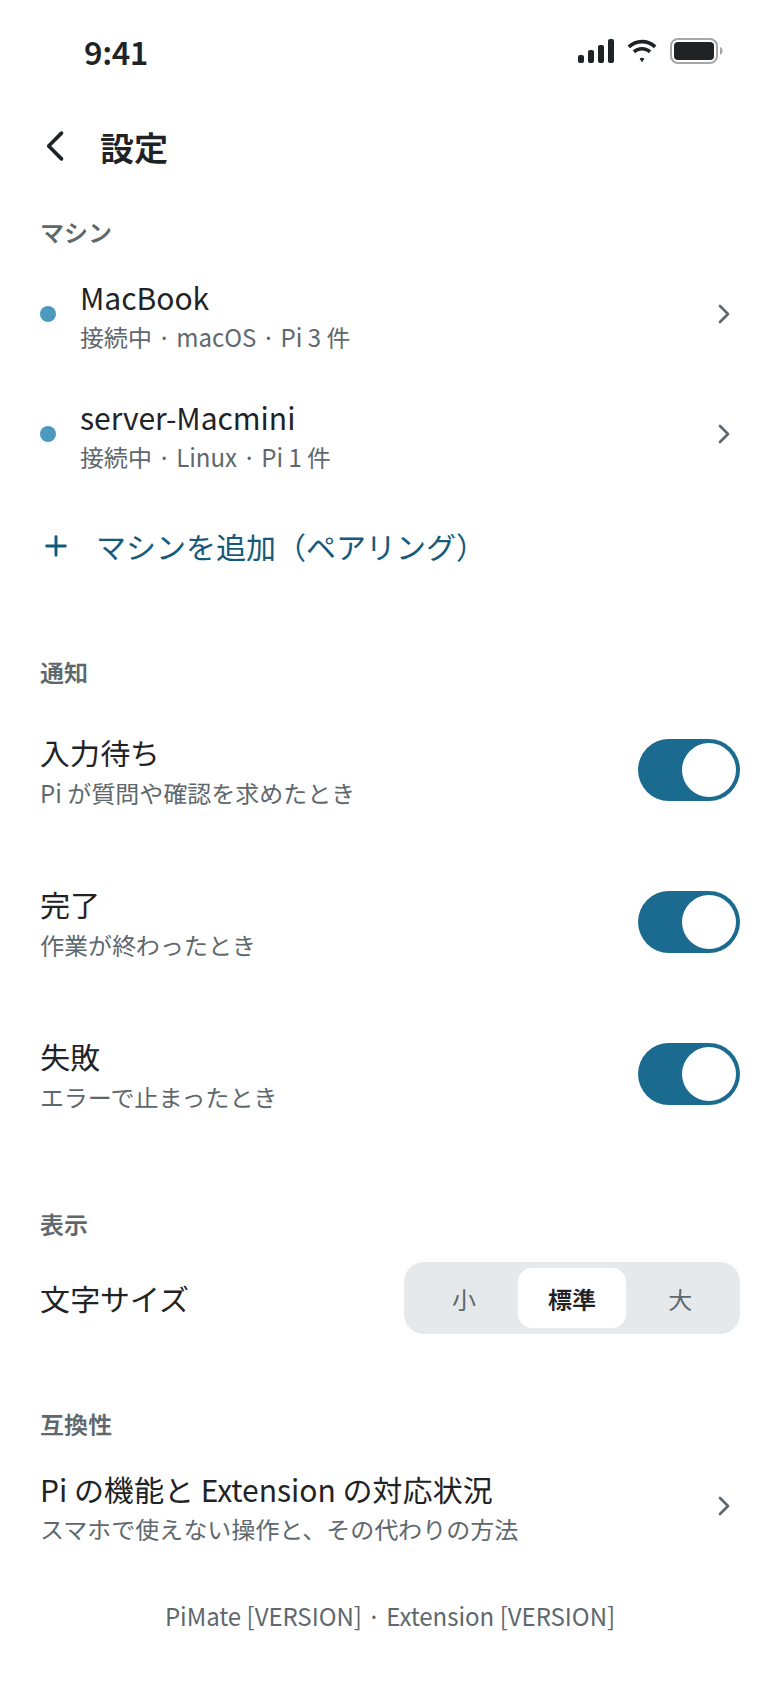
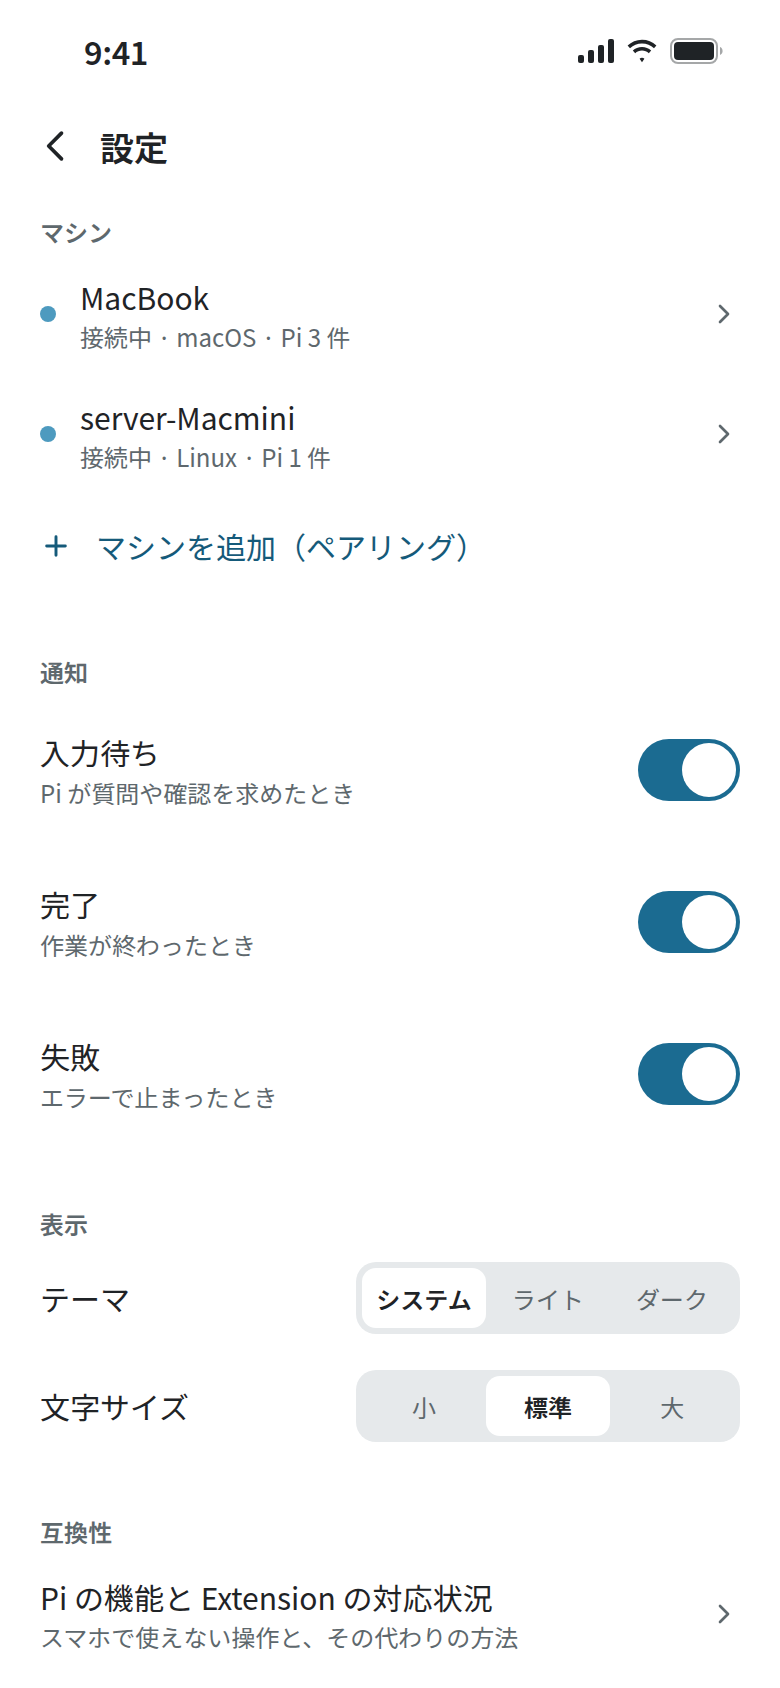
docs: describe display preferences

Changed region(s): [[0.0615, 0.7393, 0.9538, 0.9858]]

diff --git a/docs/design/html/Settings.html b/docs/design/html/Settings.html
@@ -92,8 +92,16 @@ html,body{margin:0;overflow:hidden}
 
     <div style="margin-top: 28px; font-size: 12px; font-weight: 600; color: #5E686D">表示</div>
     <div style="margin-top: 2px; padding: 8px 0; display: flex; align-items: center; gap: 12px">
+      <span style="flex: 1; font-size: 15px">テーマ</span>
+      <div role="radiogroup" aria-label="テーマ" style="height: 36px; box-sizing: border-box; padding: 3px; display: grid; grid-template-columns: repeat(3, minmax(0, 1fr)); width: 192px; border-radius: 10px; background: #E6E9EB">
+        <button role="radio" aria-checked="true" style="height: 30px; border: 0; border-radius: 7px; background: #FFFFFF; color: #1F2326; font-family: inherit; font-size: 12px; font-weight: 600">システム</button>
+        <button role="radio" aria-checked="false" style="height: 30px; border: 0; border-radius: 7px; background: transparent; color: #5E686D; font-family: inherit; font-size: 12px">ライト</button>
+        <button role="radio" aria-checked="false" style="height: 30px; border: 0; border-radius: 7px; background: transparent; color: #5E686D; font-family: inherit; font-size: 12px">ダーク</button>
+      </div>
+    </div>
+    <div style="margin-top: 2px; padding: 8px 0; display: flex; align-items: center; gap: 12px">
       <span style="flex: 1; font-size: 15px">文字サイズ</span>
-      <div role="radiogroup" aria-label="文字サイズ" style="height: 36px; box-sizing: border-box; padding: 3px; display: grid; grid-template-columns: repeat(3, minmax(0, 1fr)); width: 168px; border-radius: 10px; background: #E6E9EB">
+      <div role="radiogroup" aria-label="文字サイズ" style="height: 36px; box-sizing: border-box; padding: 3px; display: grid; grid-template-columns: repeat(3, minmax(0, 1fr)); width: 192px; border-radius: 10px; background: #E6E9EB">
         <button role="radio" aria-checked="false" style="height: 30px; border: 0; border-radius: 7px; background: transparent; color: #5E686D; font-family: inherit; font-size: 12px">小</button>
         <button role="radio" aria-checked="true" style="height: 30px; border: 0; border-radius: 7px; background: #FFFFFF; color: #1F2326; font-family: inherit; font-size: 12px; font-weight: 600">標準</button>
         <button role="radio" aria-checked="false" style="height: 30px; border: 0; border-radius: 7px; background: transparent; color: #5E686D; font-family: inherit; font-size: 12px">大</button>

diff --git a/docs/design/mock/Settings.dc.html b/docs/design/mock/Settings.dc.html
@@ -68,8 +68,16 @@ html,body{margin:0;overflow:hidden}
 
     <div style="margin-top: 28px; font-size: 12px; font-weight: 600; color: #5E686D">表示</div>
     <div style="margin-top: 2px; padding: 8px 0; display: flex; align-items: center; gap: 12px">
+      <span style="flex: 1; font-size: 15px">テーマ</span>
+      <div role="radiogroup" aria-label="テーマ" style="height: 36px; box-sizing: border-box; padding: 3px; display: grid; grid-template-columns: repeat(3, minmax(0, 1fr)); width: 192px; border-radius: 10px; background: #E6E9EB">
+        <button role="radio" aria-checked="true" style="height: 30px; border: 0; border-radius: 7px; background: #FFFFFF; color: #1F2326; font-family: inherit; font-size: 12px; font-weight: 600">システム</button>
+        <button role="radio" aria-checked="false" style="height: 30px; border: 0; border-radius: 7px; background: transparent; color: #5E686D; font-family: inherit; font-size: 12px">ライト</button>
+        <button role="radio" aria-checked="false" style="height: 30px; border: 0; border-radius: 7px; background: transparent; color: #5E686D; font-family: inherit; font-size: 12px">ダーク</button>
+      </div>
+    </div>
+    <div style="margin-top: 2px; padding: 8px 0; display: flex; align-items: center; gap: 12px">
       <span style="flex: 1; font-size: 15px">文字サイズ</span>
-      <div role="radiogroup" aria-label="文字サイズ" style="height: 36px; box-sizing: border-box; padding: 3px; display: grid; grid-template-columns: repeat(3, minmax(0, 1fr)); width: 168px; border-radius: 10px; background: #E6E9EB">
+      <div role="radiogroup" aria-label="文字サイズ" style="height: 36px; box-sizing: border-box; padding: 3px; display: grid; grid-template-columns: repeat(3, minmax(0, 1fr)); width: 192px; border-radius: 10px; background: #E6E9EB">
         <button role="radio" aria-checked="false" style="height: 30px; border: 0; border-radius: 7px; background: transparent; color: #5E686D; font-family: inherit; font-size: 12px">小</button>
         <button role="radio" aria-checked="true" style="height: 30px; border: 0; border-radius: 7px; background: #FFFFFF; color: #1F2326; font-family: inherit; font-size: 12px; font-weight: 600">標準</button>
         <button role="radio" aria-checked="false" style="height: 30px; border: 0; border-radius: 7px; background: transparent; color: #5E686D; font-family: inherit; font-size: 12px">大</button>

diff --git a/apps/mobile/README.md b/apps/mobile/README.md
@@ -1,6 +1,6 @@
 # PiMate mobile
 
-Expo（SDK 57、expo-router）のアプリです。Android優先で作っています。見た目は [docs/design/](../../docs/design/README.md) のモックに合わせます。主ボタン・1行の入力欄・コマンド表示は角丸 12px で、カプセル型は使いません。ライト / ダークは起動時の OS の設定に従います（起動中に OS 側で切り替えた場合は次の起動から。[#23](https://github.com/phni3j9a/PiMate/issues/23)）。ダークも色の役割は同じで、線や影ではなく面の濃淡で区切ります。本文は 15px です。
+Expo（SDK 57、expo-router）のアプリです。Android優先で作っています。見た目は [docs/design/](../../docs/design/README.md) のモックに合わせます。主ボタン・1行の入力欄・コマンド表示は角丸 12px で、カプセル型は使いません。設定の「表示」でテーマ（システム・ライト・ダーク）と文字サイズ（小・標準・大）を選べ、再起動なしで反映されます。文字サイズは OS の設定にも重ねて適用されます。ダークも色の役割は同じで、線や影ではなく面の濃淡で区切ります。本文は 15px です。
 
 アイコン類は [icon kit](../../docs/design/icon-kit/README.md) の書き出し済み素材を `assets/brand/` にコピーして使います（正本はキット側）。Android はライト版の adaptive icon＋テーマアイコン用の単色、iOS は Light / Dark / Tinted。スプラッシュはアプリの背景色にマークを載せ、ライト / ダークで配色を切り替えます。通知は白いシルエット。アプリ内ではペアリングの最初の画面と設定のバージョン表示だけにマークを置きます。差し替えには APK の再ビルドが必要です（OTA では変わりません）。
 
